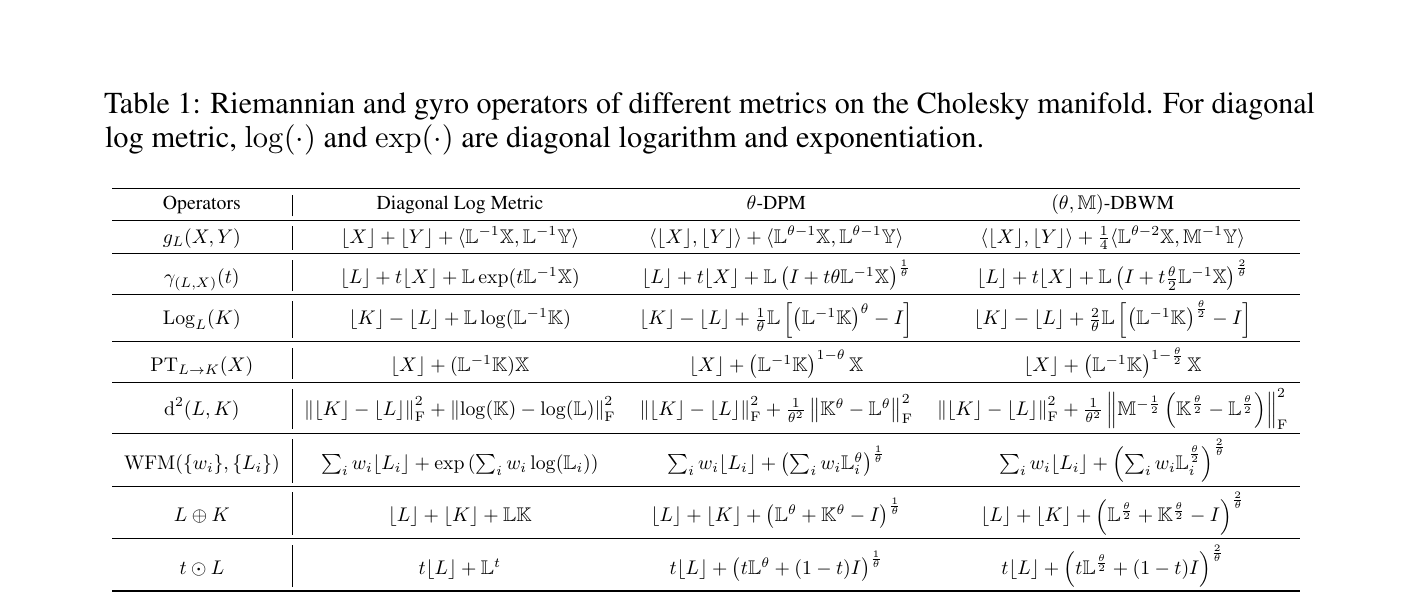
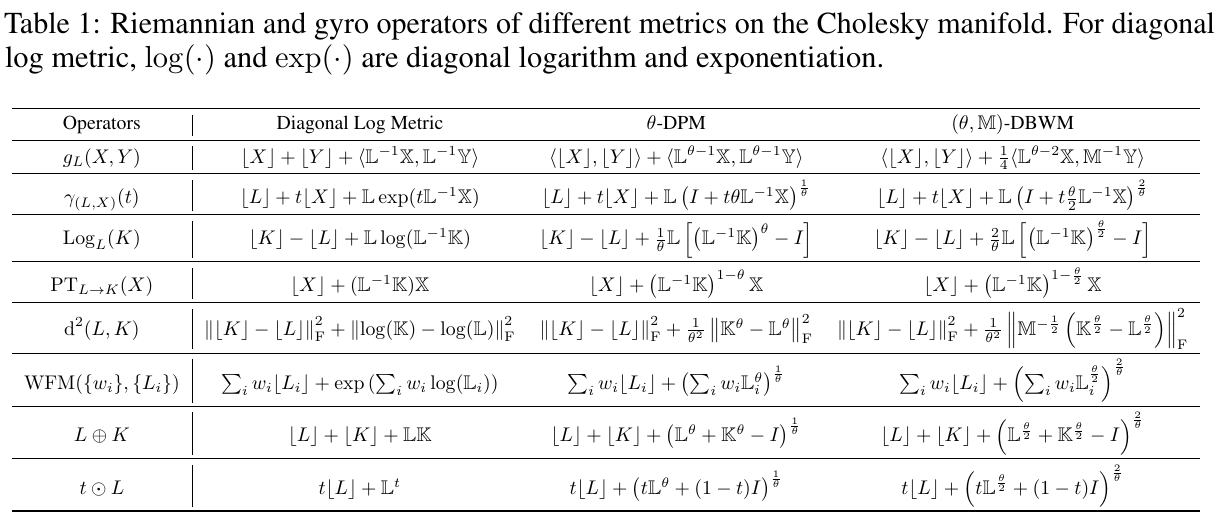
Update selected publication highlights

Changed region(s): [[0.0, 0.0, 0.9967, 1.0], [0.0311, 0.5231, 0.0623, 0.5538]]

diff --git a/assets/css/main.scss b/assets/css/main.scss
@@ -60,6 +60,25 @@
             box-shadow: 3px 3px 6px #888;
             object-fit: cover;
         }
+
+        .paper-image-frame {
+            width: 100%;
+            display: flex;
+            justify-content: center;
+            align-items: center;
+            background: #fff;
+            box-shadow: 3px 3px 6px #888;
+
+            img {
+                width: auto;
+                height: auto;
+                max-width: 100%;
+                max-height: 100%;
+                margin: 0 auto;
+                object-fit: contain;
+                box-shadow: none;
+            }
+        }
     }
     
     .paper-box-text{
@@ -146,4 +165,3 @@ h1:before, .anchor:before {
     text-align: center; /* Center the text */
     vertical-align: middle; /* Align the badge with text */
 }
-

diff --git a/_includes/detailed_pubs/2026-CVPR26-HBNN.md b/_includes/detailed_pubs/2026-CVPR26-HBNN.md
@@ -1,0 +1,20 @@
+<div class='paper-box'>
+    <div class='paper-box-image' style="display: flex; justify-content: center; align-items: center;">
+        <div style="width: 100%;">
+            <div class="badge">CVPR 2026</div>
+            <div class="paper-image-frame" style="height: 190px;">
+                <img src='images/paper_images/CVPR26-HBNN.png' alt="Horosphere and geodesic hyperplane decision boundaries">
+            </div>
+        </div>
+    </div>
+    <div class='paper-box-text' markdown="1">
+
+[Hyperbolic Busemann Neural Networks](https://openaccess.thecvf.com/content/CVPR2026/html/Chen_Hyperbolic_Busemann_Neural_Networks_CVPR_2026_paper.html) \\
+**Ziheng Chen**, Bernhard Schölkopf, Nicu Sebe.
+[[Code](https://github.com/GitZH-Chen/HBNN)] [[Slides](https://github.com/GitZH-Chen/HBNN/blob/main/PPT-CVPR26-HBNN.pdf)] [[Poster](https://github.com/GitZH-Chen/HBNN/blob/main/Poster-CVPR26-HBNN.pdf)]
+- Introduces Busemann MLR with intrinsic logits and a point-to-horosphere distance interpretation, using compact parameters, batch-efficient computation, and a Euclidean limit.
+- Develops Busemann fully connected layers by generalizing FC and activation layers to both the Poincaré and Lorentz models.
+- Validates BMLR and BFC across image classification, genomic sequence learning, node classification, and link prediction.
+
+</div>
+</div>

diff --git a/_includes/detailed_pubs/2026-ICLR26-PVNN.md b/_includes/detailed_pubs/2026-ICLR26-PVNN.md
@@ -1,0 +1,20 @@
+<div class='paper-box'>
+    <div class='paper-box-image' style="display: flex; justify-content: center; align-items: center;">
+        <div style="width: 100%;">
+            <div class="badge">ICLR 2026</div>
+            <div class="paper-image-frame" style="height: 165px;">
+                <img src='images/paper_images/ICLR26-PVNN.png' alt="Riemannian operators on proper velocity space">
+            </div>
+        </div>
+    </div>
+    <div class='paper-box-text' markdown="1">
+
+[Proper Velocity Neural Networks](https://openreview.net/forum?id=UDIYU1X3vC) \\
+**Ziheng Chen**<sup>*</sup>, Zihan Su<sup>*</sup>, Bernhard Schölkopf, Nicu Sebe.
+[[Code](https://github.com/NickyoyoSu/PVNN)] [[Poster](https://github.com/NickyoyoSu/PVNN/blob/main/ICLR26-PVNN-Poster.pdf)]
+- Establishes the complete Riemannian geometric toolkit of the proper velocity manifold with closed-form operators.
+- Develops fundamental building blocks in proper velocity space, including MLR, fully connected, convolutional, activation, and batch normalization layers.
+- Validates the stability and effectiveness of PVNNs on numerical stability, image classification, graph node classification, and genomic sequence learning.
+
+</div>
+</div>

diff --git a/_includes/detailed_pubs/2026-ICML26-CorNet.md b/_includes/detailed_pubs/2026-ICML26-CorNet.md
@@ -1,0 +1,20 @@
+<div class='paper-box'>
+    <div class='paper-box-image' style="display: flex; justify-content: center; align-items: center;">
+        <div style="width: 100%;">
+            <div class="badge">ICML 2026</div>
+            <div class="paper-image-frame" style="height: 210px;">
+                <img src='images/paper_images/ICML26-CorNet.png' alt="Correlation matrices embedded in the SPD manifold">
+            </div>
+        </div>
+    </div>
+    <div class='paper-box-text' markdown="1">
+
+[Riemannian Networks over Full-Rank Correlation Matrices](https://openreview.net/forum?id=8k4om4zj5E) \\
+**Ziheng Chen**, Xiao-Jun Wu, Bernhard Schölkopf, Nicu Sebe.
+[[Poster](https://icml.cc/media/PosterPDFs/ICML%202026/65936.png?t=1779479913.993183)]
+- Extends MLR, fully connected, and convolutional layers to the correlation manifold under five geometries.
+- Develops accurate backpropagation for Riemannian computations under OLM and LSM.
+- Demonstrates the effectiveness of correlation embeddings and networks through comparisons with existing SPD and Grassmannian networks.
+
+</div>
+</div>

diff --git a/_includes/detailed_pubs/2025-ICLR25-CovPooling.md b/_includes/detailed_pubs/2025-ICLR25-CovPooling.md
@@ -10,8 +10,8 @@
 [Understanding Matrix Function Normalizations in Covariance Pooling through the Lens of Riemannian Geometry](https://openreview.net/forum?id=q1t0Lmvhty) \\
 **Ziheng Chen**, Yue Song, Xiao-Jun Wu, Gaowen Liu, Nicu Sebe.
 [[Code](https://github.com/GitZH-Chen/RiemGCP)]
-- Explains the working mechanism of matrix functions in Global Covariance Pooling from the perspectives of tangent and Riemannian classifiers, and finally claims that the rationality of matrix functions should be attributed to the Riemannian classifiers they implicitly respect.
-- Validates the theoretical argument on the ImageNet and three FGVC datasets through comprehensive experiments.  
+- Explains matrix-function normalizations in global covariance pooling through Riemannian classifiers.
+- Validates the analysis on ImageNet and three FGVC datasets.
 
 
 </div>

diff --git a/_includes/detailed_pubs/2026-NeurIPS26-RieFC.md b/_includes/detailed_pubs/2026-NeurIPS26-RieFC.md
@@ -1,0 +1,17 @@
+<div class='paper-box'>
+    <div class='paper-box-image' style="display: flex; justify-content: center; align-items: center;">
+        <div>
+            <div class="badge">NeurIPS 2026</div>
+            <img src='images/paper_images/NeurIPS26-RieFC.png' alt="RieFC theorem" width="100%">
+        </div>
+    </div>
+    <div class='paper-box-text' markdown="1">
+
+Building Transformation Layers for Riemannian Neural Networks \\
+**Ziheng Chen**.
+- Introduces a principled generalization of fully connected and convolutional layers to Riemannian spaces.
+- Instantiates the framework on three hyperbolic models, five SPD geometries, and two Grassmannian perspectives.
+- Validates the framework on benchmark tasks across hyperbolic, SPD, and Grassmannian manifolds.
+
+</div>
+</div>

diff --git a/_pages/includes/pub_short.md b/_pages/includes/pub_short.md
@@ -1,12 +1,16 @@
 # 📝 Selected Publications 
 († denotes the corresponding author; <sup>*</sup> denotes equal contribution) 
 
+{% include detailed_pubs/2026-NeurIPS26-RieFC.md %}
+{% include detailed_pubs/2026-ICML26-CorNet.md %}
+{% include detailed_pubs/2026-CVPR26-HBNN.md %}
+{% include detailed_pubs/2026-ICLR26-PVNN.md %}
+{% include detailed_pubs/2026-ICLR26-CPG.md %}
 {% include detailed_pubs/2025-ICLR25-GyroBN.md %}
 {% include detailed_pubs/2025-ICLR25-CovPooling.md %}
 {% include detailed_pubs/2024-NeurIPS-RMLR.md %}
 {% include detailed_pubs/2024-ICLR-LieBN.md %}
 {% include detailed_pubs/2024-CVPR-SPDMLR.md %}
-{% include detailed_pubs/2026-ICLR26-CPG.md %}
 {% include detailed_pubs/2024-TIP-ALEM.md %}
 <!-- {% include detailed_pubs/2024-IJCAI-GDLNet.md %} -->
 

diff --git a/_includes/detailed_pubs/2025-ICLR25-GyroBN.md b/_includes/detailed_pubs/2025-ICLR25-GyroBN.md
@@ -12,8 +12,7 @@
 [[Code](https://github.com/GitZH-Chen/GyroBN)]
 - Proposes pseudo-reductive gyrogroups, a relaxed structure of gyrogroups, with complete theoretical analyses.   
 - Establishes the conditions for theoretical control over sample statistics in Riemannian batch normalization over gyrogroups, i.e., pseudo-reduction and gyroisometric gyrations. 
-- Introduces a GyroBN framework for Riemannian Batch Normalization over gyrogroups, applicable to various geometries.  
-- Manifests GyroBN on the Grassmannian and hyperbolic spaces.
+- Introduces GyroBN and instantiates it on Grassmannian and hyperbolic spaces.
 
 </div>
 </div>
